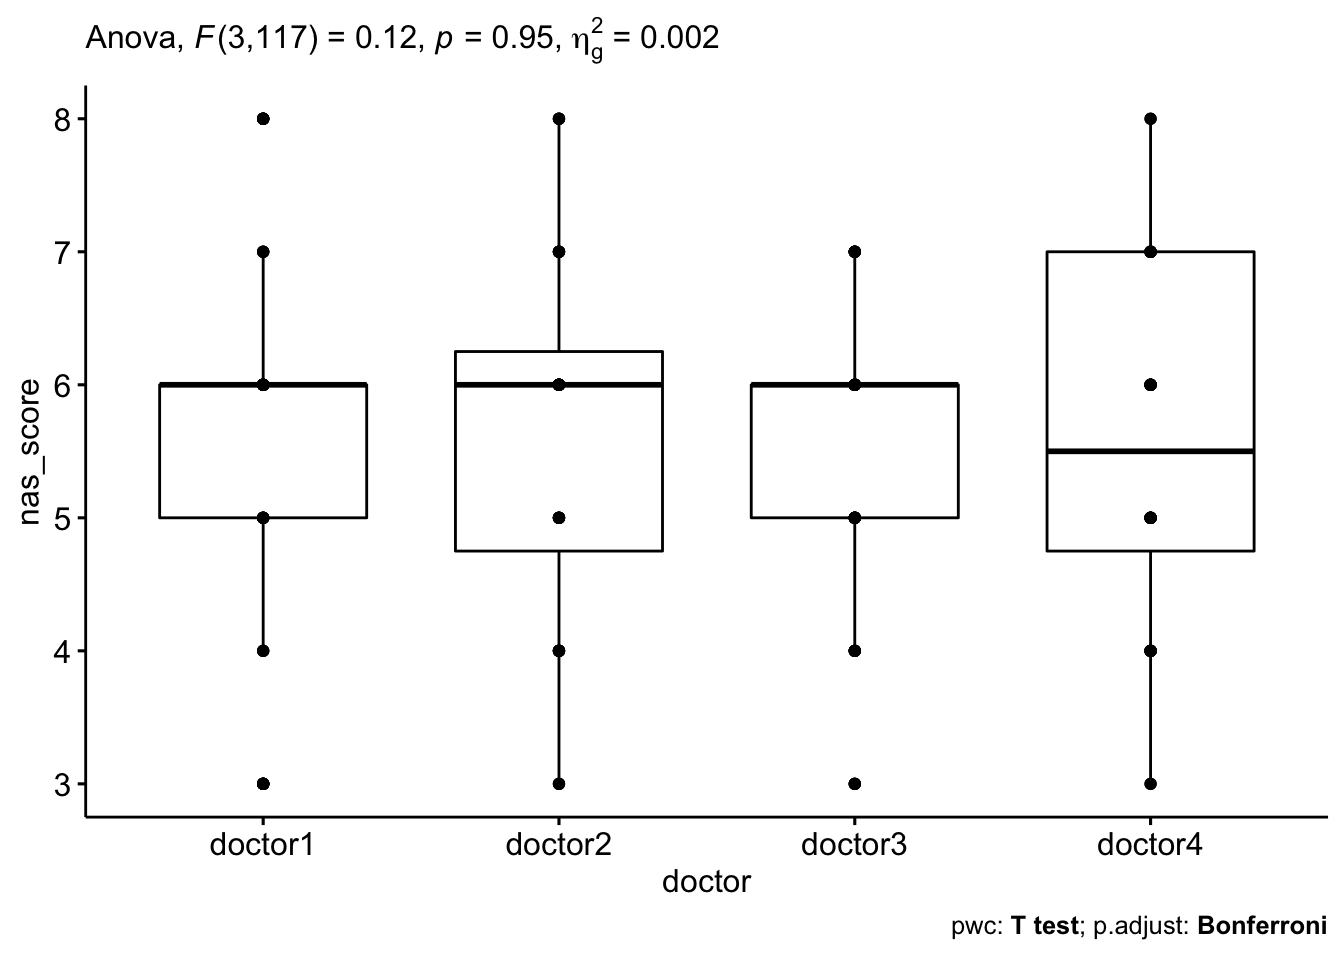
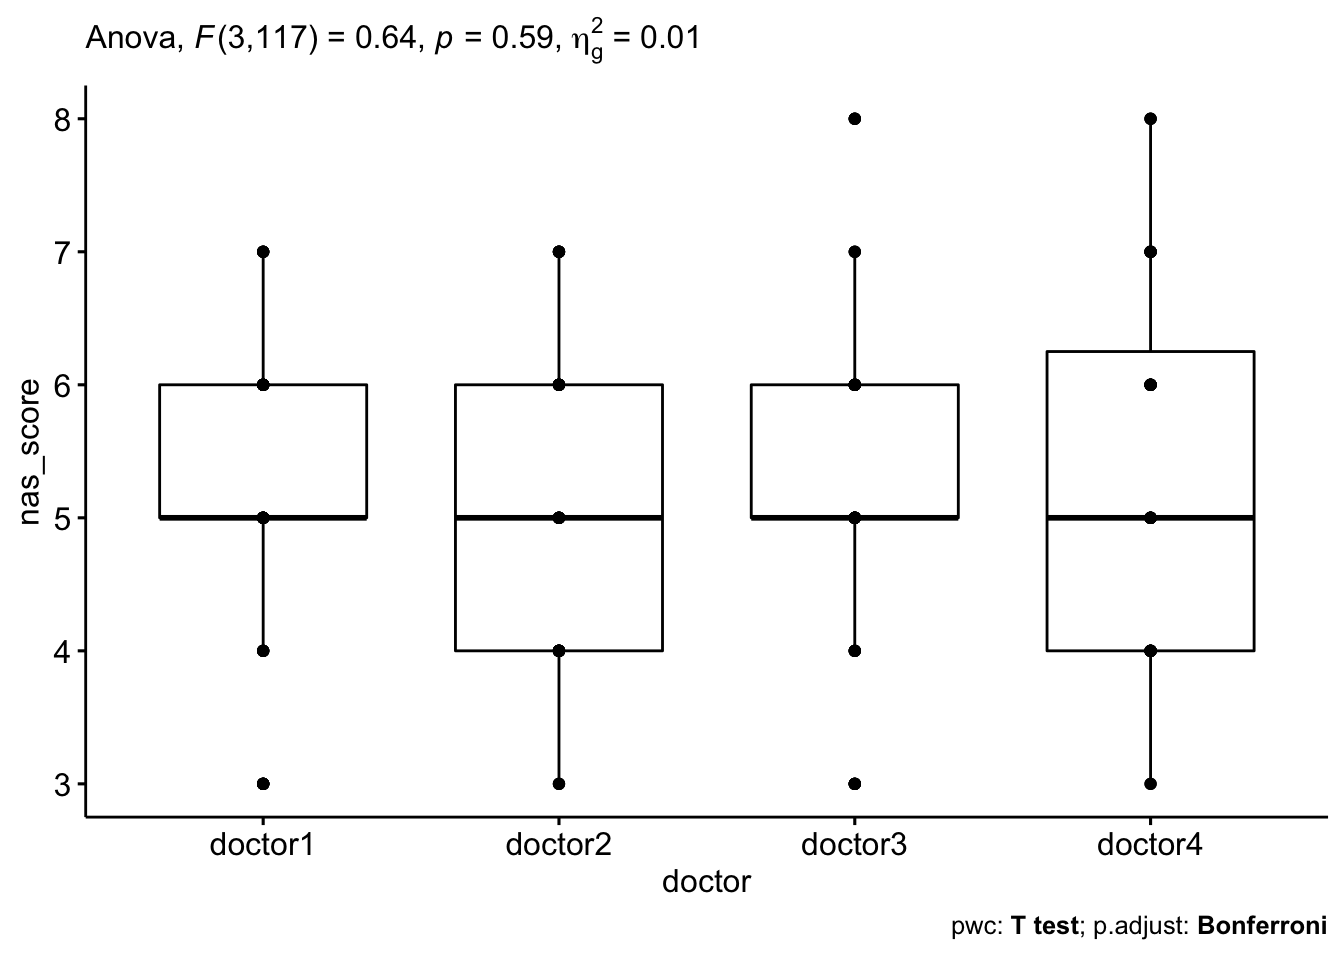
commit everything?

diff --git a/NAS.html b/NAS.html
@@ -364,30 +364,28 @@ mydata_long &lt;- mydata %&gt;%
 <pre class="r"><code>mydata_long %&gt;%
   group_by(doctor) %&gt;%
   identify_outliers(nas_score)</code></pre>
-<pre><code>## # A tibble: 11 x 5
-##    doctor  id    nas_score is.outlier is.extreme
-##    &lt;fct&gt;   &lt;fct&gt;     &lt;dbl&gt; &lt;lgl&gt;      &lt;lgl&gt;     
-##  1 doctor1 1             3 TRUE       FALSE     
-##  2 doctor1 19            3 TRUE       FALSE     
-##  3 doctor1 20            3 TRUE       FALSE     
-##  4 doctor1 23            8 TRUE       FALSE     
-##  5 doctor1 24            3 TRUE       FALSE     
-##  6 doctor1 25            3 TRUE       FALSE     
-##  7 doctor1 27            8 TRUE       FALSE     
-##  8 doctor1 33            8 TRUE       FALSE     
-##  9 doctor1 36            8 TRUE       FALSE     
-## 10 doctor3 7             3 TRUE       FALSE     
-## 11 doctor3 31            3 TRUE       FALSE</code></pre>
+<pre><code>## # A tibble: 9 x 5
+##   doctor  id    nas_score is.outlier is.extreme
+##   &lt;fct&gt;   &lt;fct&gt;     &lt;dbl&gt; &lt;lgl&gt;      &lt;lgl&gt;     
+## 1 doctor1 5             3 TRUE       FALSE     
+## 2 doctor1 7             3 TRUE       FALSE     
+## 3 doctor1 19            3 TRUE       FALSE     
+## 4 doctor1 27            3 TRUE       FALSE     
+## 5 doctor3 5             3 TRUE       FALSE     
+## 6 doctor3 10            8 TRUE       FALSE     
+## 7 doctor3 23            8 TRUE       FALSE     
+## 8 doctor3 28            3 TRUE       FALSE     
+## 9 doctor3 39            3 TRUE       FALSE</code></pre>
 <pre class="r"><code>mydata_long %&gt;%
   group_by(doctor) %&gt;%
   shapiro_test(nas_score)</code></pre>
 <pre><code>## # A tibble: 4 x 4
 ##   doctor  variable  statistic       p
 ##   &lt;fct&gt;   &lt;chr&gt;         &lt;dbl&gt;   &lt;dbl&gt;
-## 1 doctor1 nas_score     0.902 0.00212
-## 2 doctor2 nas_score     0.935 0.0233 
-## 3 doctor3 nas_score     0.905 0.00272
-## 4 doctor4 nas_score     0.934 0.0218</code></pre>
+## 1 doctor1 nas_score     0.904 0.00247
+## 2 doctor2 nas_score     0.906 0.00280
+## 3 doctor3 nas_score     0.922 0.00917
+## 4 doctor4 nas_score     0.935 0.0236</code></pre>
 </div>
 <div id="test" class="section level4">
 <h4>Test</h4>
@@ -396,7 +394,7 @@ get_anova_table(res.aov)</code></pre>
 <pre><code>## ANOVA Table (type III tests)
 ## 
 ##   Effect DFn DFd     F     p p&lt;.05   ges
-## 1 doctor   3 117 0.118 0.949       0.002</code></pre>
+## 1 doctor   3 117 0.638 0.592       0.012</code></pre>
 <pre class="r"><code>### pairwise comparisons
 pwc &lt;- mydata_long %&gt;%
   pairwise_t_test(
@@ -407,12 +405,12 @@ pwc</code></pre>
 <pre><code>## # A tibble: 6 x 10
 ##   .y.       group1  group2     n1    n2 statistic    df     p p.adj p.adj.signif
 ## * &lt;chr&gt;     &lt;chr&gt;   &lt;chr&gt;   &lt;int&gt; &lt;int&gt;     &lt;dbl&gt; &lt;dbl&gt; &lt;dbl&gt; &lt;dbl&gt; &lt;chr&gt;       
-## 1 nas_score doctor1 doctor2    40    40     0        39 1         1 ns          
-## 2 nas_score doctor1 doctor3    40    40     0.530    39 0.599     1 ns          
-## 3 nas_score doctor1 doctor4    40    40     0.270    39 0.789     1 ns          
-## 4 nas_score doctor2 doctor3    40    40     0.514    39 0.61      1 ns          
-## 5 nas_score doctor2 doctor4    40    40     0.237    39 0.814     1 ns          
-## 6 nas_score doctor3 doctor4    40    40    -0.281    39 0.78      1 ns</code></pre>
+## 1 nas_score doctor1 doctor2    40    40     0.601    39 0.551     1 ns          
+## 2 nas_score doctor1 doctor3    40    40    -0.227    39 0.822     1 ns          
+## 3 nas_score doctor1 doctor4    40    40    -0.748    39 0.459     1 ns          
+## 4 nas_score doctor2 doctor3    40    40    -0.692    39 0.493     1 ns          
+## 5 nas_score doctor2 doctor4    40    40    -1.26     39 0.214     1 ns          
+## 6 nas_score doctor3 doctor4    40    40    -0.632    39 0.531     1 ns</code></pre>
 </div>
 </div>
 <div id="visualization" class="section level3">

diff --git a/Resume.html b/Resume.html
@@ -283,6 +283,9 @@ $(document).ready(function () {
   </a>
 </li>
 <li>
+  <a href="about.html">About</a>
+</li>
+<li>
   <a href="http://github.com/cocococozou/">
     <span class="fa fa-github fa-lg"></span>
      

diff --git a/myresume.html b/myresume.html
@@ -283,6 +283,9 @@ $(document).ready(function () {
   </a>
 </li>
 <li>
+  <a href="about.html">About</a>
+</li>
+<li>
   <a href="http://github.com/cocococozou/">
     <span class="fa fa-github fa-lg"></span>
      
